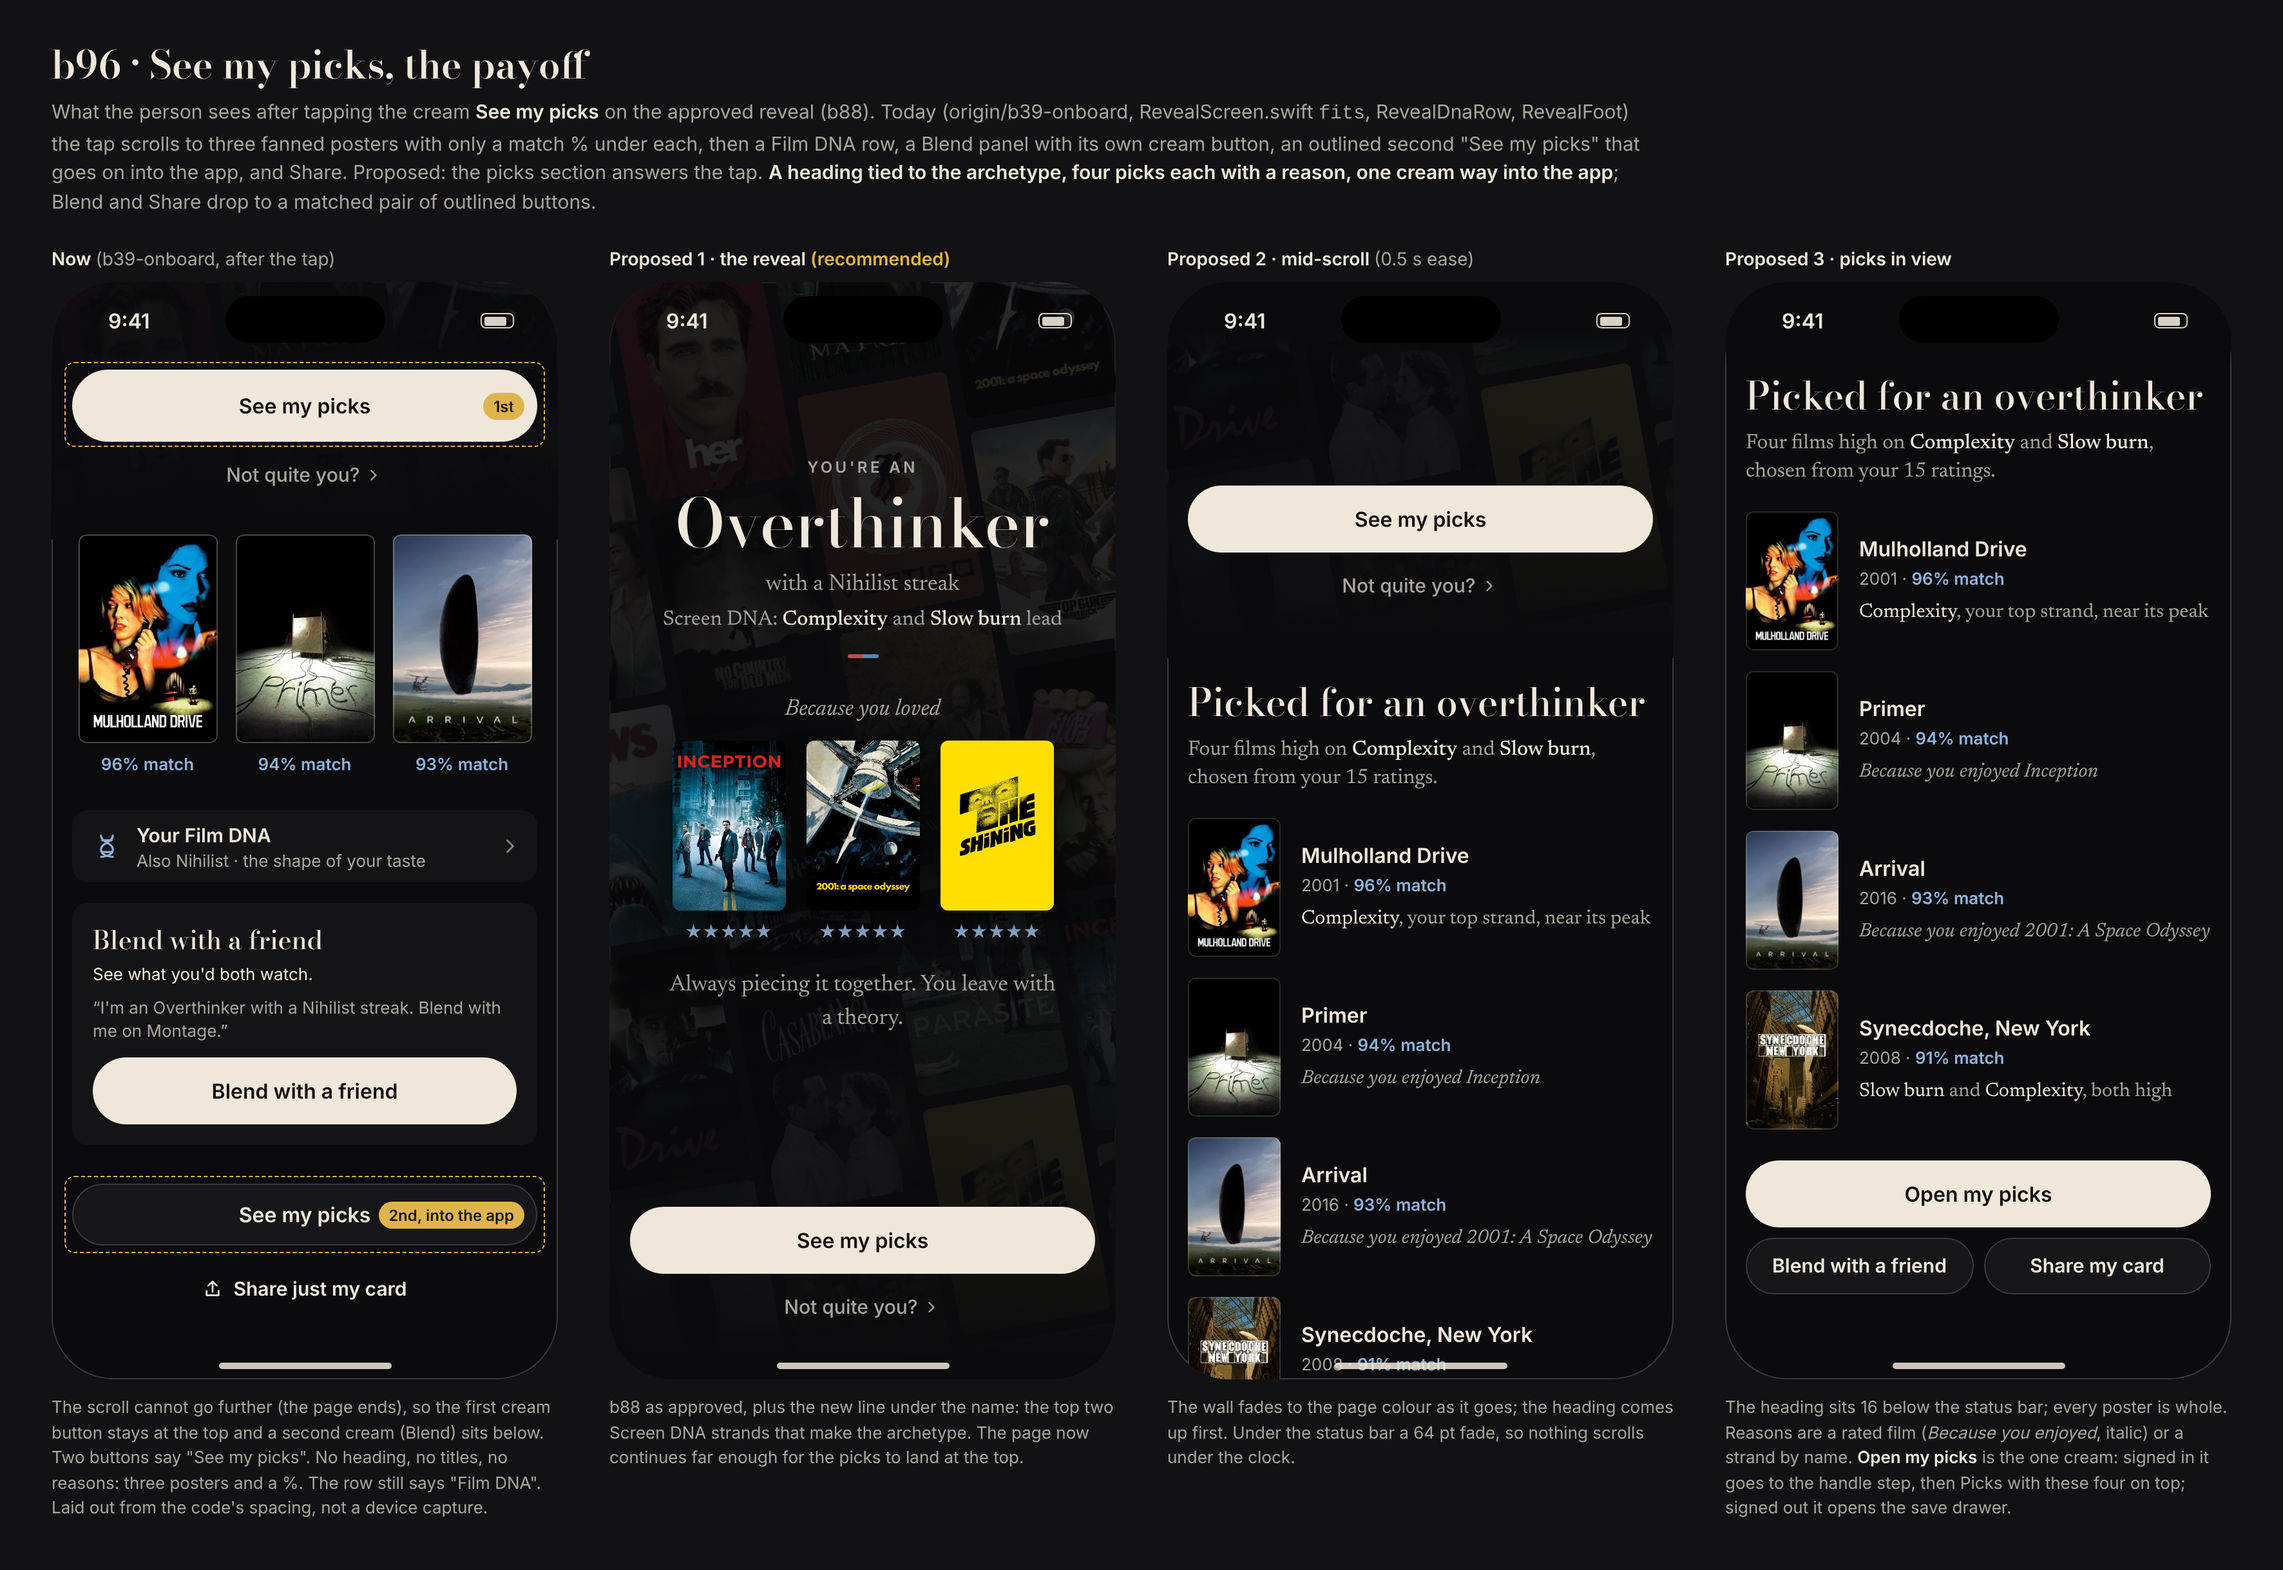
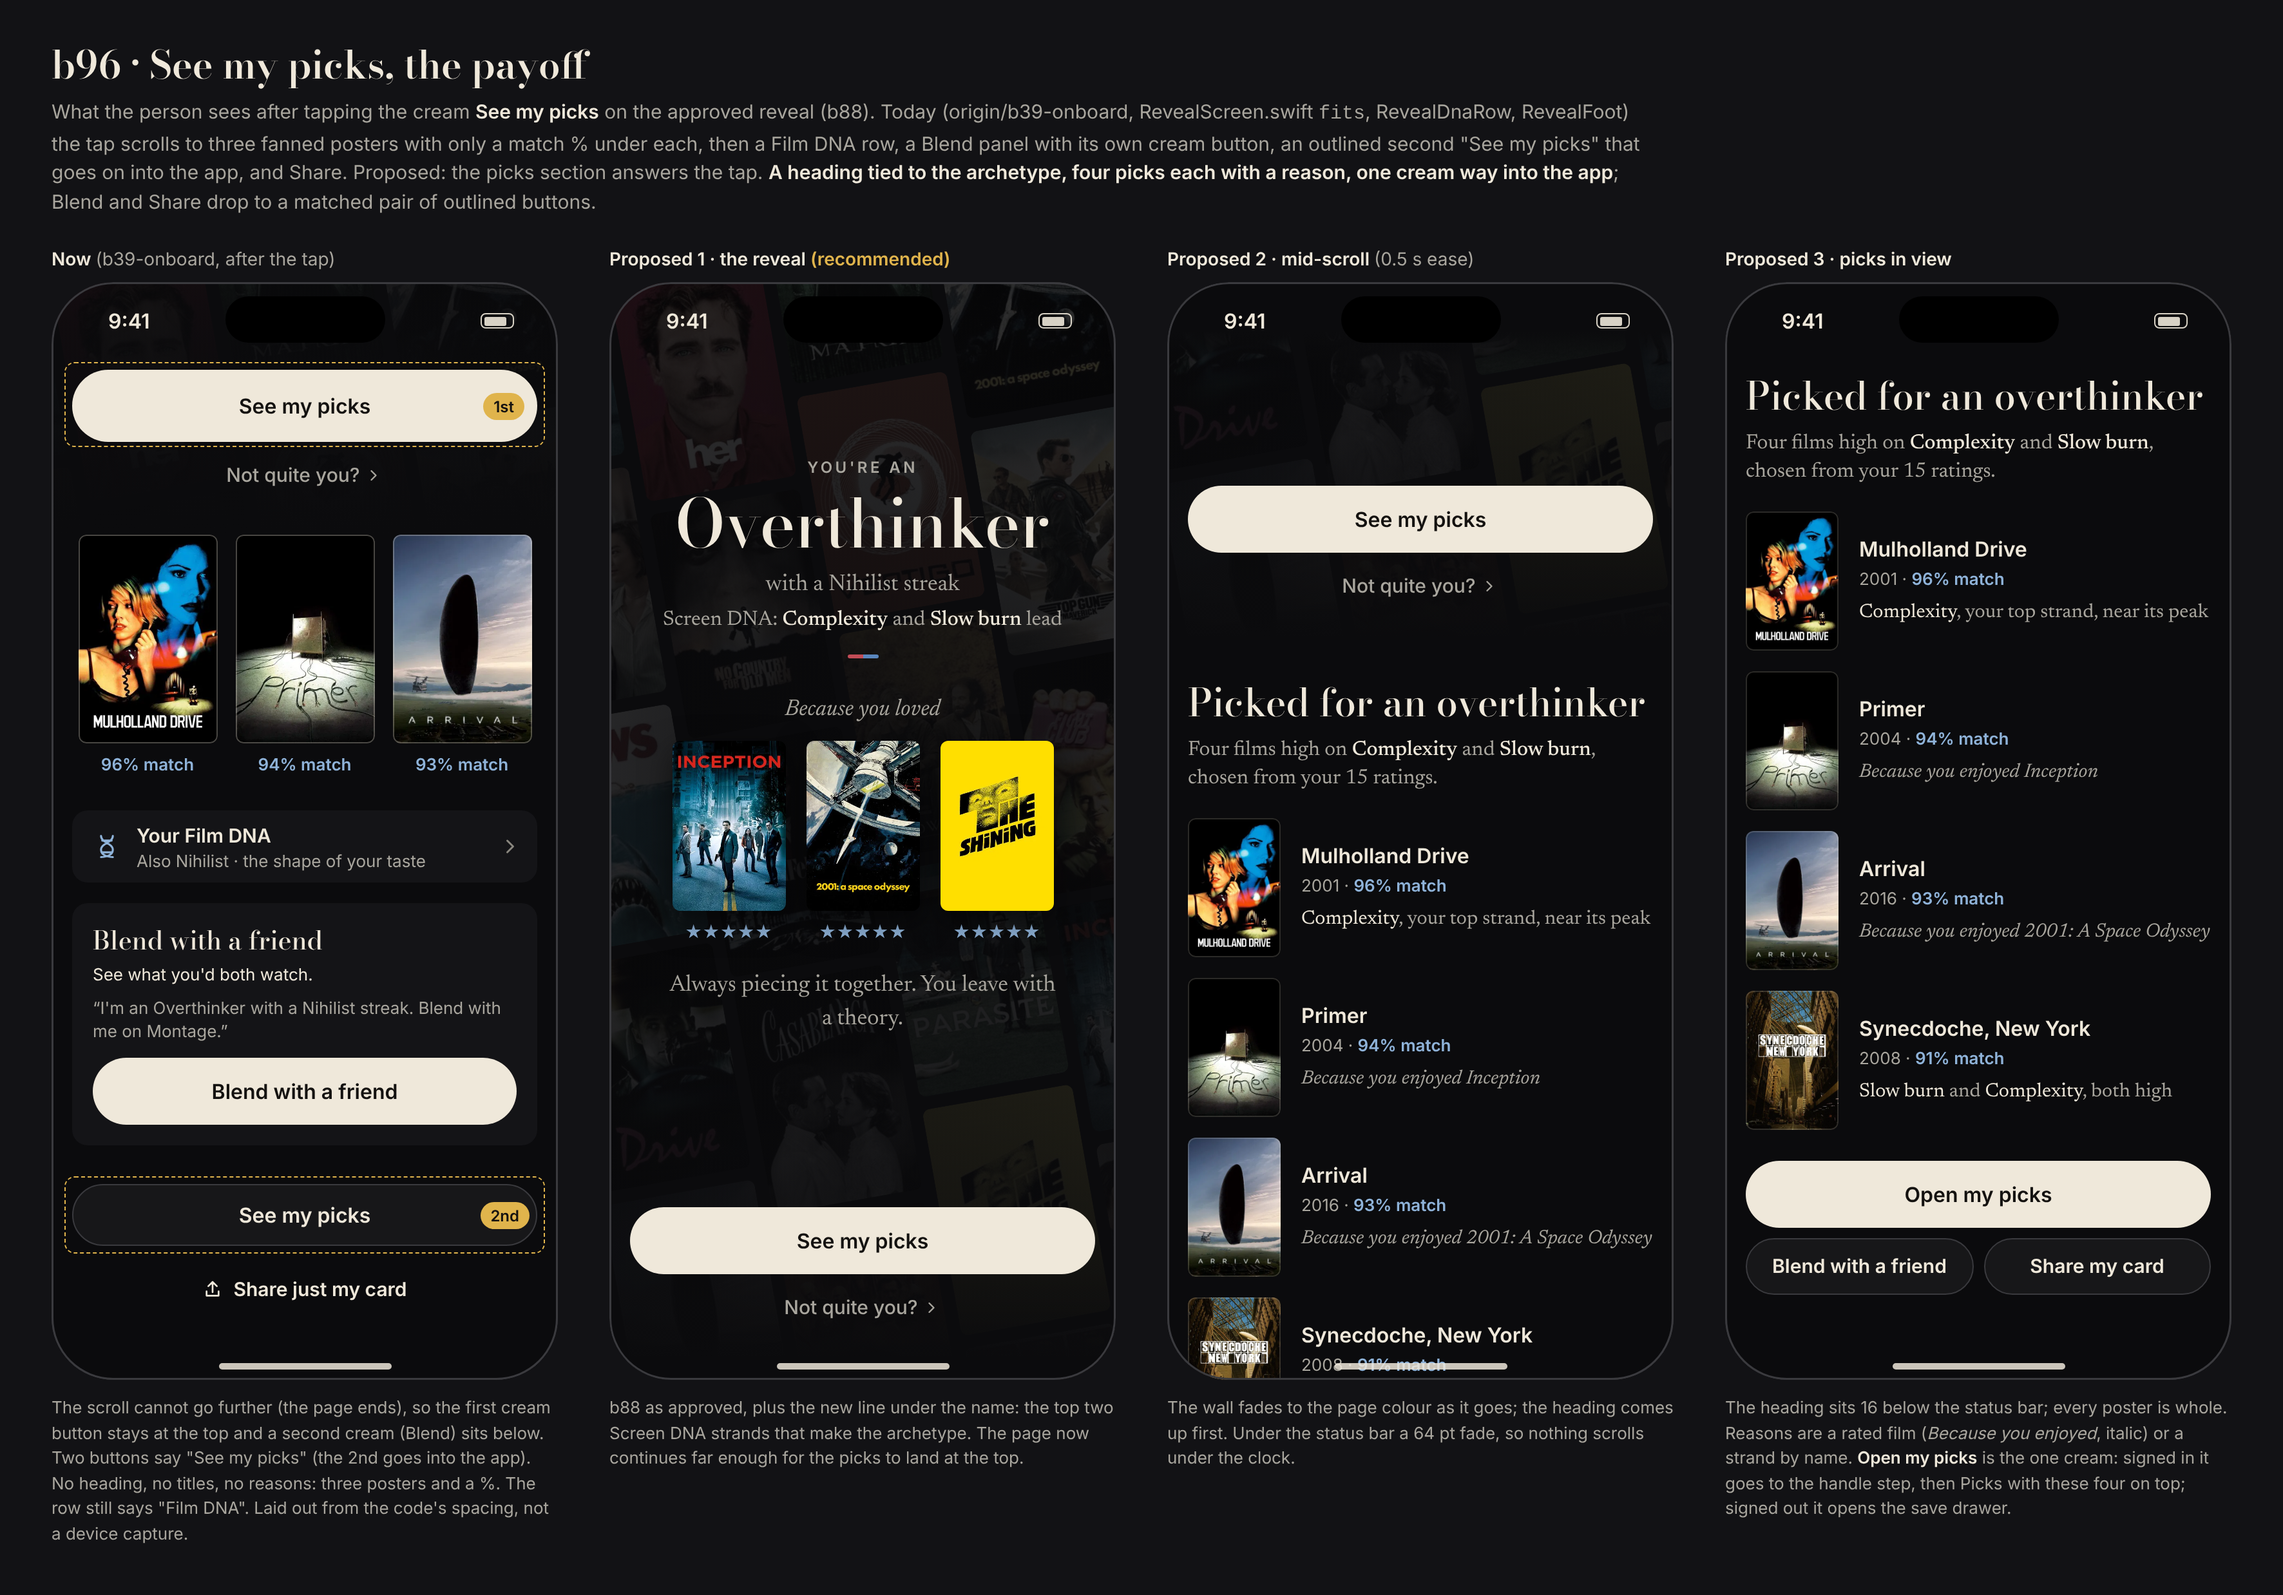
Build 39 mocks: see my picks (b96)
Claude-Session: https://claude.ai/code/session_013WRDCFXH8nihP92apJAVW7

diff --git a/mockups/journeys/b96-see-my-picks.html b/mockups/journeys/b96-see-my-picks.html
@@ -44,6 +44,7 @@
 .row .rs i{font-style:italic}
 .row .rs em{font-style:normal;color:var(--ink)}
 .pair{display:flex;gap:8px}.pair>div{flex:1;height:44px;line-height:42px;font-size:15px}
+.ph:after{content:"";position:absolute;inset:0;border-radius:48px;box-shadow:inset 0 0 0 1.5px var(--line2);z-index:45;pointer-events:none}
 .arrow{position:absolute;z-index:60;font:600 12px var(--ui);color:#141210;background:#E0B44C;padding:3px 8px;border-radius:999px}
 </style></head>
 <body>
@@ -52,7 +53,7 @@
   <div class="bs">What the person sees after tapping the cream <b>See my picks</b> on the approved reveal (b88). Today (origin/b39-onboard, RevealScreen.swift <code>fits</code>, RevealDnaRow, RevealFoot) the tap scrolls to three fanned posters with only a match % under each, then a Film DNA row, a Blend panel with its own cream button, an outlined second "See my picks" that goes on into the app, and Share. Proposed: the picks section answers the tap. <b>A heading tied to the archetype, four picks each with a reason, one cream way into the app</b>; Blend and Share drop to a matched pair of outlined buttons.</div>
   <div class="cols">
     <div><div class="cap">Now <span>(b39-onboard, after the tap)</span></div><div class="ph" id="now"></div>
-      <div class="under">The scroll cannot go further (the page ends), so the first cream button stays at the top and a second cream (Blend) sits below. Two buttons say "See my picks". No heading, no titles, no reasons: three posters and a %. The row still says "Film DNA". Laid out from the code's spacing, not a device capture.</div></div>
+      <div class="under">The scroll cannot go further (the page ends), so the first cream button stays at the top and a second cream (Blend) sits below. Two buttons say "See my picks" (the 2nd goes into the app). No heading, no titles, no reasons: three posters and a %. The row still says "Film DNA". Laid out from the code's spacing, not a device capture.</div></div>
     <div><div class="cap">Proposed 1 · the reveal <span class="rec">(recommended)</span></div><div class="ph" id="p1"></div>
       <div class="under">b88 as approved, plus the new line under the name: the top two Screen DNA strands that make the archetype. The page now continues far enough for the picks to land at the top.</div></div>
     <div><div class="cap">Proposed 2 · mid-scroll <span>(0.5 s ease)</span></div><div class="ph" id="p2"></div>
@@ -89,7 +90,7 @@ ${chrome}
 <div class="note" style="left:10px;top:62px;width:373px;height:66px"></div>
 <div class="note" style="left:10px;top:694px;width:373px;height:60px"></div>
 <div class="arrow" style="right:26px;top:86px">1st</div>
-<div class="arrow" style="right:26px;top:714px">2nd, into the app</div>`;
+<div class="arrow" style="right:22px;top:714px">2nd</div>`;
 
 /* ---------- Proposed: one tall page, three scroll offsets ---------- */
 const revealTop=`<div style="position:absolute;left:0;right:0;top:0;height:852px;overflow:hidden">${wall}</div>
